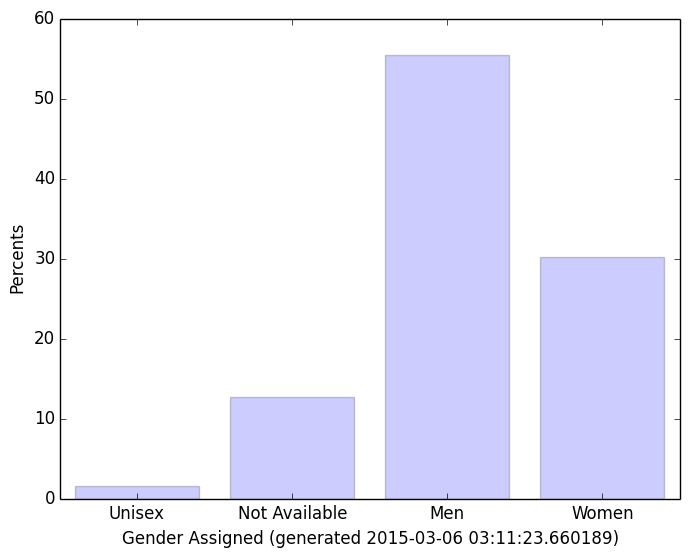
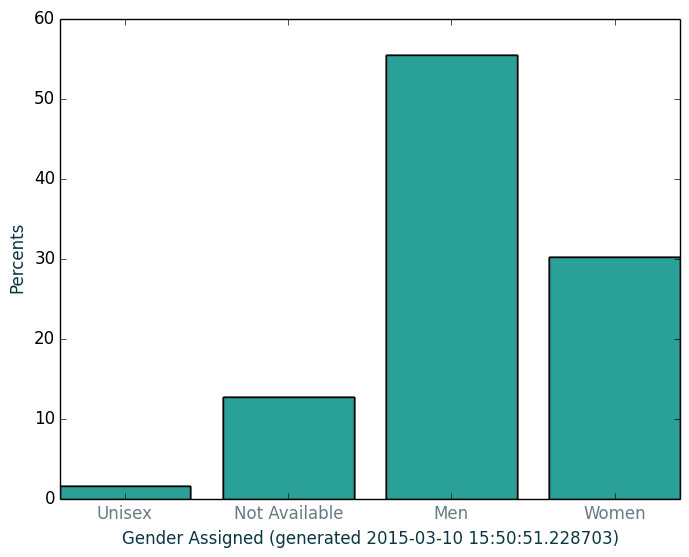
generate solarized gender chart

Changed region(s): [[0.0914, 0.0916, 1.0, 0.9767], [0.0, 0.3968, 0.0305, 0.5189]]

diff --git a/bibliometrics/gender_bib_distribution.py b/bibliometrics/gender_bib_distribution.py
@@ -22,15 +22,18 @@ import matplotlib.pyplot as plt
 """date time functions """
 from datetime import datetime #idk bring in the system date or whatever
 
+"""csv"""
+import csv
 
-# In[3]:
+
+# In[2]:
 
 today = datetime.today()
 bib = 'CriticalOpenNeuro.bib' #bring that bib file in
 gc = GenderComputer(os.path.abspath('genderComputer/nameLists')) #make gendercomputer
 
 
-# In[4]:
+# In[3]:
 
 def customizations(record):
     """Use some functions delivered by the library
@@ -44,7 +47,7 @@ def customizations(record):
     return record
 
 
-# In[5]:
+# In[4]:
 
 def parseFile(bib_file):
     """parse the bib file
@@ -60,7 +63,20 @@ def parseFile(bib_file):
         return data
 
 
+# In[5]:
+
+women = 0
+men = 0
+uni = 0
+notav = 0
+auCount = 0
+
+unavailable = []
+
+
 # In[6]:
+
+
 
 def countGender(ts=True):
     """take the bib database and count genders of authors
@@ -70,6 +86,7 @@ def countGender(ts=True):
     global uni
     global men
     global women
+    global unavailable
     for entry in data.entries:
         title = entry["title"]
         if "author" in entry:
@@ -89,22 +106,20 @@ def countGender(ts=True):
                 notav += 1 
                 if ts == True:
                     print j, title
-            
 
 
 # In[7]:
 
-women = 0
-men = 0
-uni = 0
-notav = 0
-auCount = 0
+data = parseFile(bib) #run the parse file
+countGender(False)
 
 
 # In[8]:
 
-data = parseFile(bib) #run the parse file
-countGender()
+"""writing names unassigned to a file for troubleshooting"""
+with open('unavailable_gender', 'wb') as myfile:
+    wr = csv.writer(myfile, quoting=csv.QUOTE_ALL)
+    wr.writerow(unavailable)
 
 
 # In[9]:
@@ -128,15 +143,20 @@ print percents
 print auCount
 
 
-# In[12]:
+# In[20]:
 
-plt.bar(range(len(stats)), percents.values(), align='center', alpha=0.2)
-plt.xticks(range(len(percents)), percents.keys())
-plt.xlabel('Gender Assigned (generated ' + str(today) +')')
-plt.ylabel('Percents')
+plt.bar(range(len(stats)), percents.values(), align='center', color="#2aa198")
+plt.xticks(range(len(percents)), percents.keys(), color="#657b83")
+plt.xlabel('Gender Assigned (generated ' + str(today) +')', color="#073642")
+plt.ylabel('Percents', color="#073642")
 
 
-# In[13]:
+# In[21]:
 
-plt.savefig('gender_distr.png', bbox_inches='tight')
+plt.savefig('gender_distr.png', bbox_inches='tight',transparent=True)
+
+
+# In[ ]:
+
+
 
